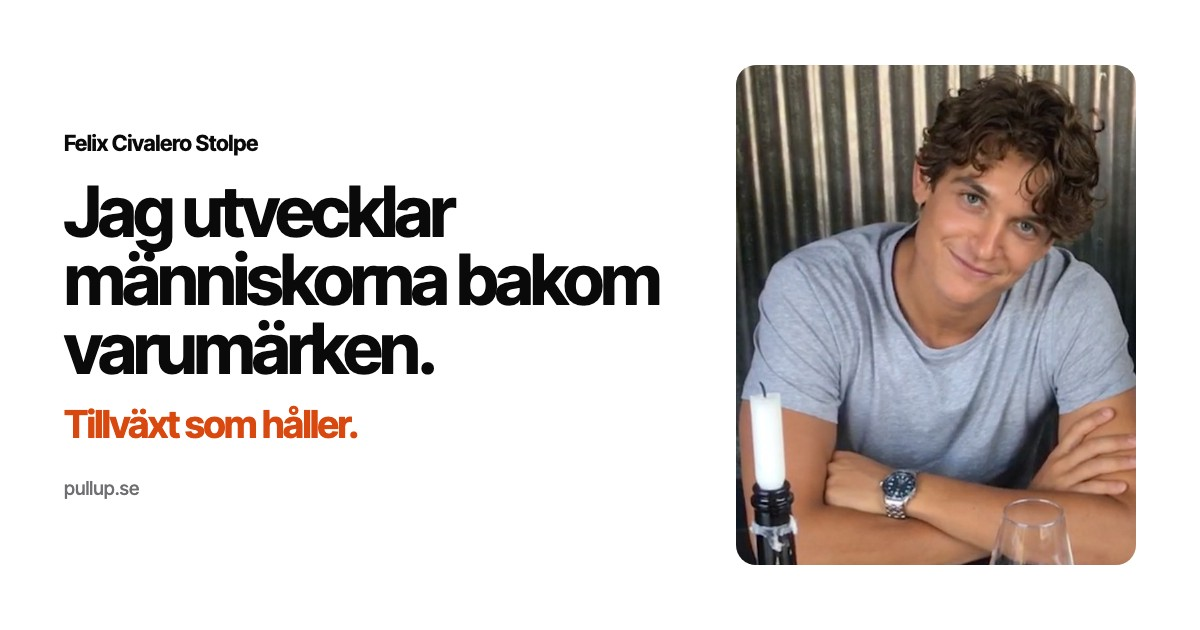
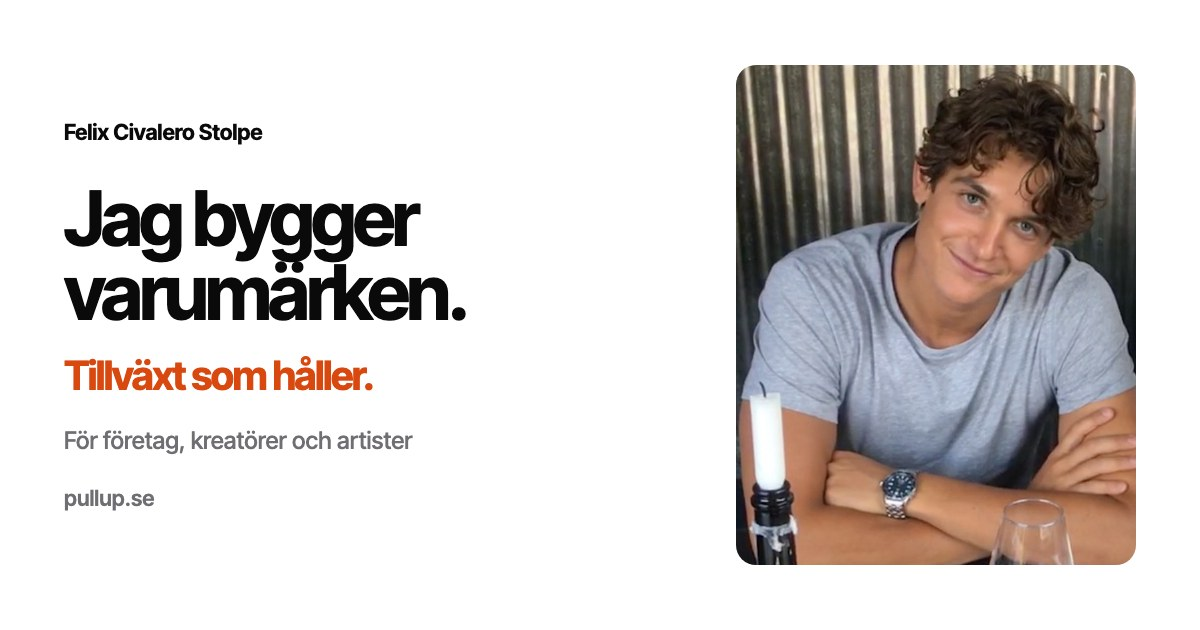
Front page: I build brands — for companies, creators and artists; less about the people behind brands. New link preview.

Changed region(s): [[0.0308, 0.3016, 0.555, 0.7238], [0.0308, 0.181, 0.2158, 0.2413], [0.0308, 0.754, 0.1233, 0.8143]]

diff --git a/frontend/index.html b/frontend/index.html
@@ -8,9 +8,9 @@
     />
 
     <!-- Primary Meta -->
-    <title>Felix Civalero Stolpe — Jag utvecklar människorna bakom varumärken. Tillväxt som håller.</title>
-    <meta name="title" content="Felix Civalero Stolpe — Jag utvecklar människorna bakom varumärken. Tillväxt som håller." />
-    <meta name="description" content="Freestyleproffs, jägarsoldat, naprapat – i dag utvecklar jag människorna bakom varumärken. Content, marknadsföring och tillväxt som håller. 30 000 kr i månaden." />
+    <title>Felix Civalero Stolpe — Jag bygger varumärken. Tillväxt som håller.</title>
+    <meta name="title" content="Felix Civalero Stolpe — Jag bygger varumärken. Tillväxt som håller." />
+    <meta name="description" content="Jag bygger varumärken – för företag, kreatörer och artister. Content, marknadsföring och tillväxt som håller. 30 000 kr i månaden." />
     <link rel="canonical" href="https://pullup.se/" />
 
     <!-- Open Graph. Absolute URLs so strict crawlers (Instagram via Facebook)
@@ -22,21 +22,21 @@
     <meta property="og:site_name" content="Felix Civalero Stolpe" />
     <meta property="og:locale" content="sv_SE" />
     <meta property="og:locale:alternate" content="en_US" />
-    <meta property="og:title" content="Jag utvecklar människorna bakom varumärken. Tillväxt som håller." />
-    <meta property="og:description" content="Freestyleproffs, jägarsoldat, naprapat – i dag utvecklar jag människorna bakom varumärken. Content, marknadsföring och tillväxt som håller. 30 000 kr i månaden." />
-    <meta property="og:image" content="https://pullup.se/og-agency.jpg?v=6" />
-    <meta property="og:image:secure_url" content="https://pullup.se/og-agency.jpg?v=6" />
+    <meta property="og:title" content="Jag bygger varumärken. Tillväxt som håller." />
+    <meta property="og:description" content="Jag bygger varumärken – för företag, kreatörer och artister. Content, marknadsföring och tillväxt som håller. 30 000 kr i månaden." />
+    <meta property="og:image" content="https://pullup.se/og-agency.jpg?v=7" />
+    <meta property="og:image:secure_url" content="https://pullup.se/og-agency.jpg?v=7" />
     <meta property="og:image:type" content="image/jpeg" />
     <meta property="og:image:width" content="1200" />
     <meta property="og:image:height" content="630" />
-    <meta property="og:image:alt" content="Felix Civalero Stolpe – Jag utvecklar människorna bakom varumärken. Tillväxt som håller." />
+    <meta property="og:image:alt" content="Felix Civalero Stolpe – Jag bygger varumärken. Tillväxt som håller." />
 
     <!-- Twitter / X -->
     <meta name="twitter:card" content="summary_large_image" />
-    <meta name="twitter:title" content="Jag utvecklar människorna bakom varumärken. Tillväxt som håller." />
-    <meta name="twitter:description" content="Freestyleproffs, jägarsoldat, naprapat – i dag utvecklar jag människorna bakom varumärken. Content, marknadsföring och tillväxt som håller. 30 000 kr i månaden." />
-    <meta name="twitter:image" content="https://pullup.se/og-agency.jpg?v=6" />
-    <meta name="twitter:image:alt" content="Felix Civalero Stolpe – Jag utvecklar människorna bakom varumärken. Tillväxt som håller." />
+    <meta name="twitter:title" content="Jag bygger varumärken. Tillväxt som håller." />
+    <meta name="twitter:description" content="Jag bygger varumärken – för företag, kreatörer och artister. Content, marknadsföring och tillväxt som håller. 30 000 kr i månaden." />
+    <meta name="twitter:image" content="https://pullup.se/og-agency.jpg?v=7" />
+    <meta name="twitter:image:alt" content="Felix Civalero Stolpe – Jag bygger varumärken. Tillväxt som håller." />
 
     <!-- Structured data: who we are and what we sell -->
     <script type="application/ld+json">
@@ -48,8 +48,8 @@
         "founder": { "@type": "Person", "name": "Felix Civalero Stolpe", "jobTitle": "Grundare" },
         "url": "https://pullup.se/",
         "logo": "https://pullup.se/pwa-icon-512.png",
-        "image": "https://pullup.se/og-agency.jpg?v=6",
-        "description": "Freestyleproffs, jägarsoldat, naprapat – i dag utvecklar jag människorna bakom varumärken. Content, marknadsföring och tillväxt som håller. 30 000 kr i månaden.",
+        "image": "https://pullup.se/og-agency.jpg?v=7",
+        "description": "Jag bygger varumärken – för företag, kreatörer och artister. Content, marknadsföring och tillväxt som håller. 30 000 kr i månaden.",
         "email": "felix@pullup.se",
         "areaServed": ["Stockholm", "Nairobi", "Worldwide"],
         "inLanguage": ["sv", "en"],

diff --git a/frontend/src/pages/FelixContent.jsx b/frontend/src/pages/FelixContent.jsx
@@ -16,10 +16,12 @@ import { useT } from "../components/agency/i18n.js";
 
 // The bio: who Felix has been — his facts only (freestyle pro, Ranger in the
 // 31st Light Battalion at Karlsborg, naprapath, seven years of marketing). Don't embellish: no
-// sport name, no "licensed", no invented details.
+// sport name, no "licensed", no invented details. The site talks about
+// building brands — for companies, creators and artists — not about "the
+// people behind brands" (Felix 2026-10-26: the people he mails didn't get it).
 const BIO = [
   "I've lived a few lives already. Pro freestyler. Ranger in the 31st Light Battalion in Karlsborg. Four years of study to become a naprapath, over three years treating patients — and then seven years of marketing.",
-  "The common thread is people: how they perform, recover and grow. Today I do the same with brands — I find the person behind it and help them show up as who they actually are.",
+  "Today I build brands — for companies, creators and artists. A clear direction, content that sounds like them and growth you can measure.",
 ];
 
 const scrollToId = (id) => document.getElementById(id)?.scrollIntoView({ behavior: "smooth", block: "start" });
@@ -38,10 +40,10 @@ export function FelixContent() {
           <div className="fl-hero-text">
             <p className="fl-me fl-rise" style={{ "--d": "0.05s" }}>
               <img src="/felix.jpg" alt="" decoding="async" />
-              <span><b>Felix Civalero Stolpe</b>{t("For founders, brands and creators")}</span>
+              <span><b>Felix Civalero Stolpe</b>{t("For companies, creators and artists")}</span>
             </p>
-            <p className="fl-k fl-rise" style={{ "--d": "0.05s" }}>{t("For founders, brands and creators")}</p>
-            <h1 className="fl-h1 fl-rise" style={{ "--d": "0.15s" }}>{t("I develop the people behind brands.")}</h1>
+            <p className="fl-k fl-rise" style={{ "--d": "0.05s" }}>{t("For companies, creators and artists")}</p>
+            <h1 className="fl-h1 fl-rise" style={{ "--d": "0.15s" }}>{t("I build brands.")}</h1>
             <p className="fl-slogan fl-rise" style={{ "--d": "0.35s" }}>{t("Growth that lasts.")}</p>
             <div className="fl-ctas fl-rise" style={{ "--d": "0.55s" }}>
               <button type="button" className="fl-btn" onClick={() => work("hero")}>{t("Work with me")}</button>
@@ -85,7 +87,7 @@ export function FelixContent() {
       <section id="how" className="fl-sec fl-rule" data-pc-section="how" data-pc-order="4">
         <div className="fl-wrap">
           <p className="fl-label">{t("How I work")}</p>
-          <Reveal><h2 className="fl-h2">{t("You grow every week. Your brand grows with you.")}</h2></Reveal>
+          <Reveal><h2 className="fl-h2">{t("Your brand grows every week.")}</h2></Reveal>
           <Reveal delay={0.05}>
             <p className="fl-p">{t("First a clear direction. Then 30 minutes with me every week, where your voice becomes content. Everything is measured, and what works gets scaled.")}</p>
           </Reveal>
@@ -113,7 +115,7 @@ export function FelixContent() {
       <section id="about" className="fl-sec" data-pc-section="about" data-pc-order="6">
         <div className="fl-wrap">
           <p className="fl-label">{t("About me")}</p>
-          <Reveal><h2 className="fl-h2">{t("Developing people is my passion.")}</h2></Reveal>
+          <Reveal><h2 className="fl-h2">{t("Building brands is what I do.")}</h2></Reveal>
           <div className="fl-bio">
             {BIO.map((para, i) => (
               <Reveal key={i} delay={0.05 * i}><p>{t(para)}</p></Reveal>
@@ -121,8 +123,8 @@ export function FelixContent() {
           </div>
           <Reveal>
             <blockquote className="fl-quote">
-              <p>{t("The genuine creative expression no one can copy is you.")}</p>
-              <footer>{t("You just need help channelling it. A brand is the same thing — at the level of a group.")}</footer>
+              <p>{t("Creators and artists are already brands.")}</p>
+              <footer>{t("I help them build it — with the same structure I use for companies.")}</footer>
             </blockquote>
           </Reveal>
         </div>

diff --git a/frontend/src/components/agency/i18n/sv.js b/frontend/src/components/agency/i18n/sv.js
@@ -1314,4 +1314,13 @@ export const SV = {
   "passed 10,000 views": "passerade 10 000 visningar",
   "STIGA: 28 million views in seven months": "STIGA: 28 miljoner visningar på sju månader",
   "The cover photo on the overview card is from Wikimedia Commons, used under the licence below.": "Omslagsbilden på översiktskortet kommer från Wikimedia Commons och används under licensen nedan.",
+  // Front page: building brands, for companies, creators and artists (Felix 2026-10-26)
+  "For companies, creators and artists": "För företag, kreatörer och artister",
+  "I build brands.": "Jag bygger varumärken.",
+  "I build brands. Growth that lasts.": "Jag bygger varumärken. Tillväxt som håller.",
+  "Your brand grows every week.": "Ditt varumärke växer varje vecka.",
+  "Building brands is what I do.": "Att bygga varumärken är det jag gör.",
+  "Today I build brands — for companies, creators and artists. A clear direction, content that sounds like them and growth you can measure.": "I dag bygger jag varumärken – för företag, kreatörer och artister. En tydlig riktning, innehåll som låter som dem och tillväxt som går att mäta.",
+  "Creators and artists are already brands.": "Kreatörer och artister är redan varumärken.",
+  "I help them build it — with the same structure I use for companies.": "Jag hjälper dem att bygga det – med samma struktur som för företag.",
 };

diff --git a/frontend/src/components/agency/CaseStack.jsx b/frontend/src/components/agency/CaseStack.jsx
@@ -185,19 +185,12 @@ export function CaseStack({ head }) {
   );
 }
 
-// The order and emphasis for this page (Felix 2026-10-26), and Kaijas
-// led by its people — artists, team and guests — not the room.
+// The order for this page (Felix 2026-10-26). Every card leads with its own
+// numbers — no "the brand was the people" edits.
 const ORDER = ["bkm", "stiga", "way-out-west", "li-karlsen", "kaijas", "adam-flambo"];
-const MIX_EDIT = {
-  kaijas: {
-    score: ["Artists. Team. Guests.", "the brand was the people — never the room"],
-    gained: "The artists, the team and the guests became the brand — and the reason people kept coming back.",
-  },
-};
 const STORIES = ORDER.map((slug) => SERIES.find((c) => c.slug === slug))
   .filter(Boolean)
-  .concat(SERIES.filter((c) => !ORDER.includes(c.slug)))
-  .map((c) => ({ ...c, ...MIX_EDIT[c.slug] }));
+  .concat(SERIES.filter((c) => !ORDER.includes(c.slug)));
 
 
 

diff --git a/frontend/src/pages/LandingPage.jsx b/frontend/src/pages/LandingPage.jsx
@@ -13,7 +13,7 @@ import { useT } from "../components/agency/i18n.js";
    cases, what clients say, who he is, his network, the one offer. This file adds
    /login's auth modal on top. */
 
-const TITLE = "I develop the people behind brands. Growth that lasts.";
+const TITLE = "I build brands. Growth that lasts.";
 
 /* ─── component ─── */
 export function LandingPage() {
